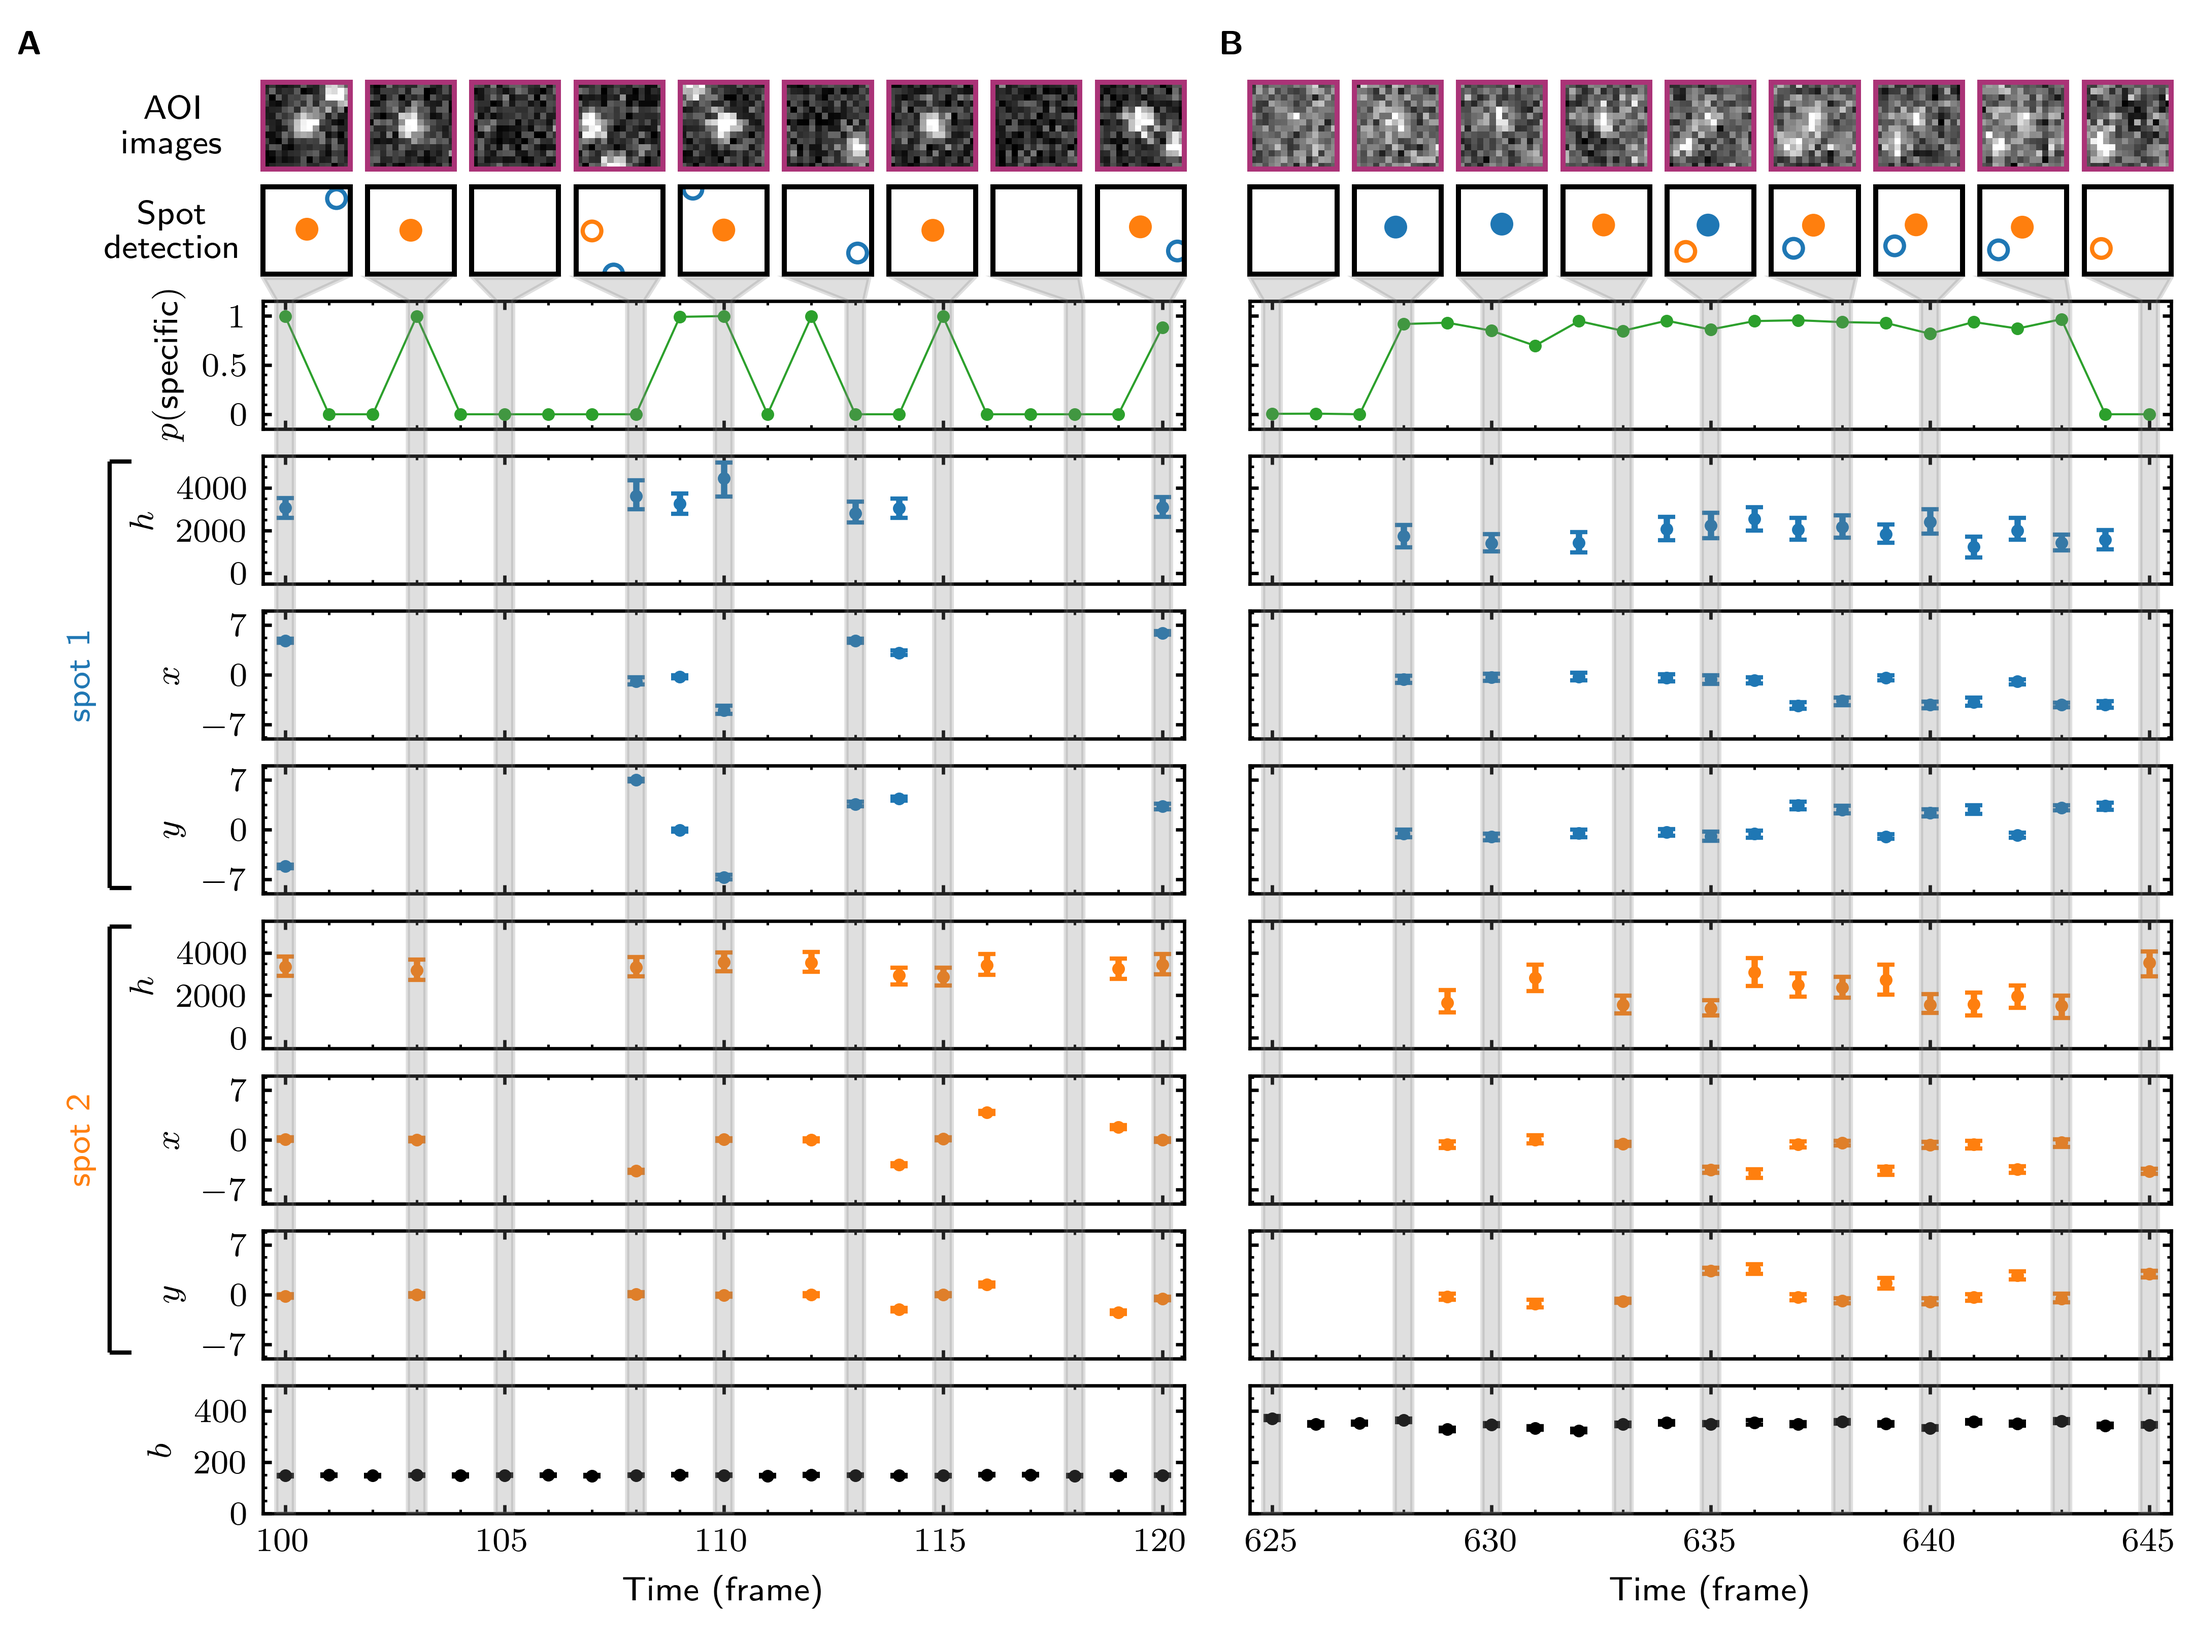
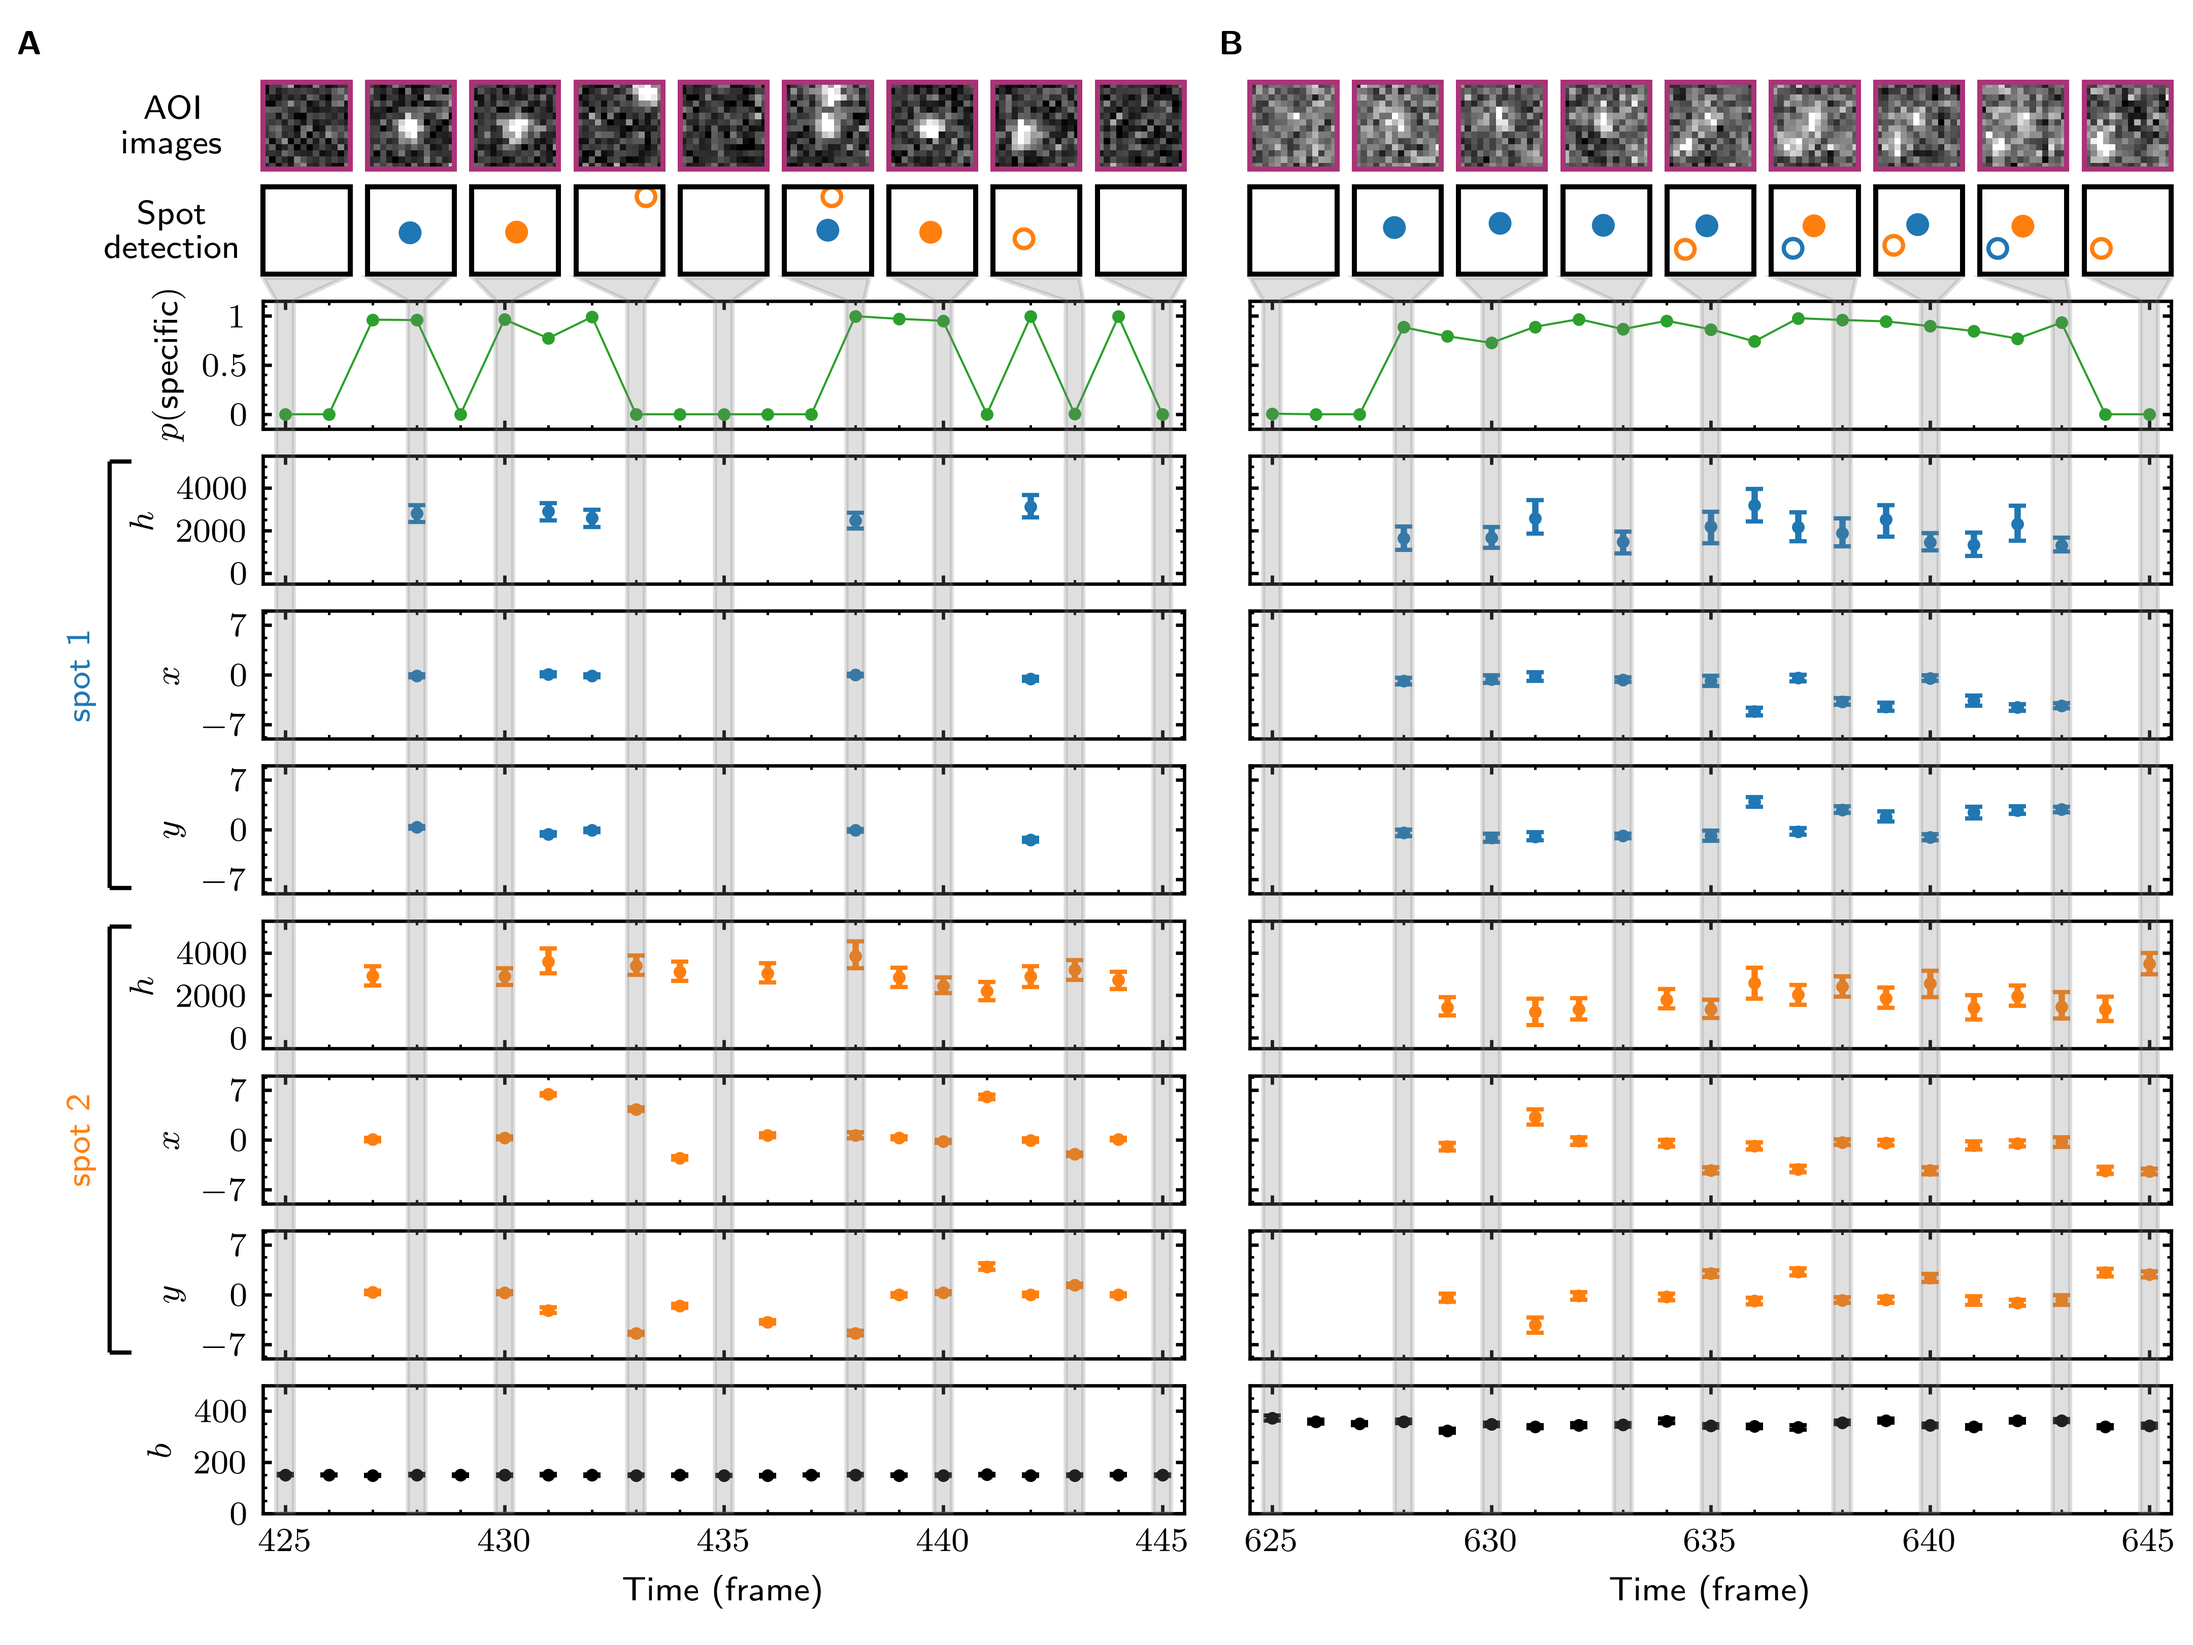
figure 3

diff --git a/scripts/figures/tapqir_analysis.py b/scripts/figures/tapqir_analysis.py
@@ -13,12 +13,12 @@ fig = plt.figure(figsize=(7.2, 5.4), constrained_layout=False)
 
 # panel a
 path_data = "simulations/lamda0.5"
-model = Cosmos(verbose=False)
+model = Cosmos()
 model.load(path_data, data_only=False)
 
-n = 0
-frames = [100, 103, 105, 108, 110, 113, 115, 118, 120]
-f1, f2 = 100, 121
+n = 1
+frames = [425, 428, 430, 433, 435, 438, 440, 443, 445]
+f1, f2 = 425, 446
 vmin, vmax = model.data.vmin, model.data.vmax
 gs = fig.add_gridspec(
     nrows=9,
@@ -35,7 +35,7 @@ gs1 = gs[0].subgridspec(2, 9)
 for i, f in enumerate(frames):
     ax = fig.add_subplot(gs1[0, i])
     plt.imshow(
-        model.data.ontarget.images[n, f].numpy(), vmin=vmin, vmax=vmax, cmap="gray"
+        model.data.images[n, f, model.cdx].numpy(), vmin=vmin, vmax=vmax, cmap="gray"
     )
     for axis in ["top", "bottom", "left", "right"]:
         ax.spines[axis].set_linewidth(1.2)
@@ -57,15 +57,15 @@ for i, f in enumerate(frames):
     ax.imshow(torch.ones((model.data.P, model.data.P)), vmin=0, vmax=1, cmap="gray")
     # add patch
     for k in range(2):
-        if model.params["d/m_probs"][k, n, f].item() > 0.5:
-            fill = model.params["d/z_probs"][k, n, f].item() > 0.5
+        if model.params["m_probs"][k, n, f].item() > 0.5:
+            fill = model.params["theta_probs"][k, n, f].item() > 0.5
             ax.add_patch(
                 Circle(
                     (
-                        model.data.ontarget.x[n, f]
-                        + model.params["d/x"]["Mean"][k, n, f].item(),
-                        model.data.ontarget.y[n, f]
-                        + model.params["d/y"]["Mean"][k, n, f].item(),
+                        model.data.x[n, f, model.cdx]
+                        + model.params["x"]["Mean"][k, n, f].item(),
+                        model.data.y[n, f, model.cdx]
+                        + model.params["y"]["Mean"][k, n, f].item(),
                     ),
                     1.5,
                     color=f"C{k}",
@@ -125,15 +125,18 @@ ax.set_ylabel(r"$p(\mathsf{specific})$")
 # height
 for k in range(2):
     ax = fig.add_subplot(gs[2 + k * 3, :])
-    mask = model.params["d/m_probs"][k, n, f1:f2] > 0.5
+    mask = model.params["m_probs"][k, n, f1:f2] > 0.5
     ax.errorbar(
         x=torch.arange(f1, f2)[mask],
-        y=model.params["d/height"]["Mean"][k, n, f1:f2][mask],
-        yerr=(
-            model.params["d/height"]["Mean"][k, n, f1:f2][mask]
-            - model.params["d/height"]["LL"][k, n, f1:f2][mask],
-            model.params["d/height"]["UL"][k, n, f1:f2][mask]
-            - model.params["d/height"]["Mean"][k, n, f1:f2][mask],
+        y=model.params["height"]["Mean"][k, n, f1:f2][mask],
+        yerr=torch.stack(
+            (
+                model.params["height"]["Mean"][k, n, f1:f2][mask]
+                - model.params["height"]["LL"][k, n, f1:f2][mask],
+                model.params["height"]["UL"][k, n, f1:f2][mask]
+                - model.params["height"]["Mean"][k, n, f1:f2][mask],
+            ),
+            0,
         ),
         fmt="o",
         ms=2,
@@ -168,15 +171,18 @@ for k in range(2):
 
     # x
     ax = fig.add_subplot(gs[3 + k * 3, :])
-    mask = model.params["d/m_probs"][k, n, f1:f2] > 0.5
+    mask = model.params["m_probs"][k, n, f1:f2] > 0.5
     ax.errorbar(
         x=torch.arange(f1, f2)[mask],
-        y=model.params["d/x"]["Mean"][k, n, f1:f2][mask],
-        yerr=(
-            model.params["d/x"]["Mean"][k, n, f1:f2][mask]
-            - model.params["d/x"]["LL"][k, n, f1:f2][mask],
-            model.params["d/x"]["UL"][k, n, f1:f2][mask]
-            - model.params["d/x"]["Mean"][k, n, f1:f2][mask],
+        y=model.params["x"]["Mean"][k, n, f1:f2][mask],
+        yerr=torch.stack(
+            (
+                model.params["x"]["Mean"][k, n, f1:f2][mask]
+                - model.params["x"]["LL"][k, n, f1:f2][mask],
+                model.params["x"]["UL"][k, n, f1:f2][mask]
+                - model.params["x"]["Mean"][k, n, f1:f2][mask],
+            ),
+            0,
         ),
         fmt="o",
         ms=2,
@@ -262,15 +268,18 @@ for k in range(2):
 
     # y
     ax = fig.add_subplot(gs[4 + k * 3, :])
-    mask = model.params["d/m_probs"][k, n, f1:f2] > 0.5
+    mask = model.params["m_probs"][k, n, f1:f2] > 0.5
     ax.errorbar(
         x=torch.arange(f1, f2)[mask],
-        y=model.params["d/y"]["Mean"][k, n, f1:f2][mask],
-        yerr=(
-            model.params["d/y"]["Mean"][k, n, f1:f2][mask]
-            - model.params["d/y"]["LL"][k, n, f1:f2][mask],
-            model.params["d/y"]["UL"][k, n, f1:f2][mask]
-            - model.params["d/y"]["Mean"][k, n, f1:f2][mask],
+        y=model.params["y"]["Mean"][k, n, f1:f2][mask],
+        yerr=torch.stack(
+            (
+                model.params["y"]["Mean"][k, n, f1:f2][mask]
+                - model.params["y"]["LL"][k, n, f1:f2][mask],
+                model.params["y"]["UL"][k, n, f1:f2][mask]
+                - model.params["y"]["Mean"][k, n, f1:f2][mask],
+            ),
+            0,
         ),
         fmt="o",
         ms=2,
@@ -307,12 +316,15 @@ for k in range(2):
 ax = fig.add_subplot(gs[8, :])
 ax.errorbar(
     x=torch.arange(f1, f2),
-    y=model.params["d/background"]["Mean"][n, f1:f2],
-    yerr=(
-        model.params["d/background"]["Mean"][n, f1:f2]
-        - model.params["d/background"]["LL"][n, f1:f2],
-        model.params["d/background"]["UL"][n, f1:f2]
-        - model.params["d/background"]["Mean"][n, f1:f2],
+    y=model.params["background"]["Mean"][n, f1:f2],
+    yerr=torch.stack(
+        (
+            model.params["background"]["Mean"][n, f1:f2]
+            - model.params["background"]["LL"][n, f1:f2],
+            model.params["background"]["UL"][n, f1:f2]
+            - model.params["background"]["Mean"][n, f1:f2],
+        ),
+        0,
     ),
     fmt="o",
     ms=2,
@@ -367,8 +379,8 @@ for i, f in enumerate(frames):
     )
 
 # panel b
-path_data = Path("experimental/Rpb1SNAP549")
-model = Cosmos(verbose=False)
+path_data = Path("experimental/DatasetA")
+model = Cosmos()
 model.load(path_data, data_only=False)
 
 n = 163
@@ -391,7 +403,7 @@ gs1 = gs[0].subgridspec(2, 9)
 for i, f in enumerate(frames):
     ax = fig.add_subplot(gs1[0, i])
     plt.imshow(
-        model.data.ontarget.images[n, f].numpy(), vmin=vmin, vmax=vmax, cmap="gray"
+        model.data.images[n, f, model.cdx].numpy(), vmin=vmin, vmax=vmax, cmap="gray"
     )
     for axis in ["top", "bottom", "left", "right"]:
         ax.spines[axis].set_linewidth(1.2)
@@ -407,15 +419,15 @@ for i, f in enumerate(frames):
     ax.imshow(torch.ones((model.data.P, model.data.P)), vmin=0, vmax=1, cmap="gray")
     # add patch
     for k in range(2):
-        if model.params["d/m_probs"][k, n, f].item() > 0.5:
-            fill = model.params["d/z_probs"][k, n, f].item() > 0.5
+        if model.params["m_probs"][k, n, f].item() > 0.5:
+            fill = model.params["theta_probs"][k, n, f].item() > 0.5
             ax.add_patch(
                 Circle(
                     (
-                        model.data.ontarget.x[n, f]
-                        + model.params["d/x"]["Mean"][k, n, f].item(),
-                        model.data.ontarget.y[n, f]
-                        + model.params["d/y"]["Mean"][k, n, f].item(),
+                        model.data.x[n, f, model.cdx]
+                        + model.params["x"]["Mean"][k, n, f].item(),
+                        model.data.y[n, f, model.cdx]
+                        + model.params["y"]["Mean"][k, n, f].item(),
                     ),
                     1.5,
                     color=f"C{k}",
@@ -466,15 +478,18 @@ ax.set_ylim(-0.15, 1.15)
 # height
 for k in range(2):
     ax = fig.add_subplot(gs[2 + k * 3, :])
-    mask = model.params["d/m_probs"][k, n, f1:f2] > 0.5
+    mask = model.params["m_probs"][k, n, f1:f2] > 0.5
     ax.errorbar(
         x=torch.arange(f1, f2)[mask],
-        y=model.params["d/height"]["Mean"][k, n, f1:f2][mask],
-        yerr=(
-            model.params["d/height"]["Mean"][k, n, f1:f2][mask]
-            - model.params["d/height"]["LL"][k, n, f1:f2][mask],
-            model.params["d/height"]["UL"][k, n, f1:f2][mask]
-            - model.params["d/height"]["Mean"][k, n, f1:f2][mask],
+        y=model.params["height"]["Mean"][k, n, f1:f2][mask],
+        yerr=torch.stack(
+            (
+                model.params["height"]["Mean"][k, n, f1:f2][mask]
+                - model.params["height"]["LL"][k, n, f1:f2][mask],
+                model.params["height"]["UL"][k, n, f1:f2][mask]
+                - model.params["height"]["Mean"][k, n, f1:f2][mask],
+            ),
+            0,
         ),
         fmt="o",
         ms=2,
@@ -509,15 +524,18 @@ for k in range(2):
 
     # x
     ax = fig.add_subplot(gs[3 + k * 3, :])
-    mask = model.params["d/m_probs"][k, n, f1:f2] > 0.5
+    mask = model.params["m_probs"][k, n, f1:f2] > 0.5
     ax.errorbar(
         x=torch.arange(f1, f2)[mask],
-        y=model.params["d/x"]["Mean"][k, n, f1:f2][mask],
-        yerr=(
-            model.params["d/x"]["Mean"][k, n, f1:f2][mask]
-            - model.params["d/x"]["LL"][k, n, f1:f2][mask],
-            model.params["d/x"]["UL"][k, n, f1:f2][mask]
-            - model.params["d/x"]["Mean"][k, n, f1:f2][mask],
+        y=model.params["x"]["Mean"][k, n, f1:f2][mask],
+        yerr=torch.stack(
+            (
+                model.params["x"]["Mean"][k, n, f1:f2][mask]
+                - model.params["x"]["LL"][k, n, f1:f2][mask],
+                model.params["x"]["UL"][k, n, f1:f2][mask]
+                - model.params["x"]["Mean"][k, n, f1:f2][mask],
+            ),
+            0,
         ),
         fmt="o",
         ms=2,
@@ -552,15 +570,18 @@ for k in range(2):
 
     # y
     ax = fig.add_subplot(gs[4 + k * 3, :])
-    mask = model.params["d/m_probs"][k, n, f1:f2] > 0.5
+    mask = model.params["m_probs"][k, n, f1:f2] > 0.5
     ax.errorbar(
         x=torch.arange(f1, f2)[mask],
-        y=model.params["d/y"]["Mean"][k, n, f1:f2][mask],
-        yerr=(
-            model.params["d/y"]["Mean"][k, n, f1:f2][mask]
-            - model.params["d/y"]["LL"][k, n, f1:f2][mask],
-            model.params["d/y"]["UL"][k, n, f1:f2][mask]
-            - model.params["d/y"]["Mean"][k, n, f1:f2][mask],
+        y=model.params["y"]["Mean"][k, n, f1:f2][mask],
+        yerr=torch.stack(
+            (
+                model.params["y"]["Mean"][k, n, f1:f2][mask]
+                - model.params["y"]["LL"][k, n, f1:f2][mask],
+                model.params["y"]["UL"][k, n, f1:f2][mask]
+                - model.params["y"]["Mean"][k, n, f1:f2][mask],
+            ),
+            0,
         ),
         fmt="o",
         ms=2,
@@ -597,12 +618,15 @@ for k in range(2):
 ax = fig.add_subplot(gs[8, :])
 ax.errorbar(
     x=torch.arange(f1, f2),
-    y=model.params["d/background"]["Mean"][n, f1:f2],
-    yerr=(
-        model.params["d/background"]["Mean"][n, f1:f2]
-        - model.params["d/background"]["LL"][n, f1:f2],
-        model.params["d/background"]["UL"][n, f1:f2]
-        - model.params["d/background"]["Mean"][n, f1:f2],
+    y=model.params["background"]["Mean"][n, f1:f2],
+    yerr=torch.stack(
+        (
+            model.params["background"]["Mean"][n, f1:f2]
+            - model.params["background"]["LL"][n, f1:f2],
+            model.params["background"]["UL"][n, f1:f2]
+            - model.params["background"]["Mean"][n, f1:f2],
+        ),
+        0,
     ),
     fmt="o",
     ms=2,
